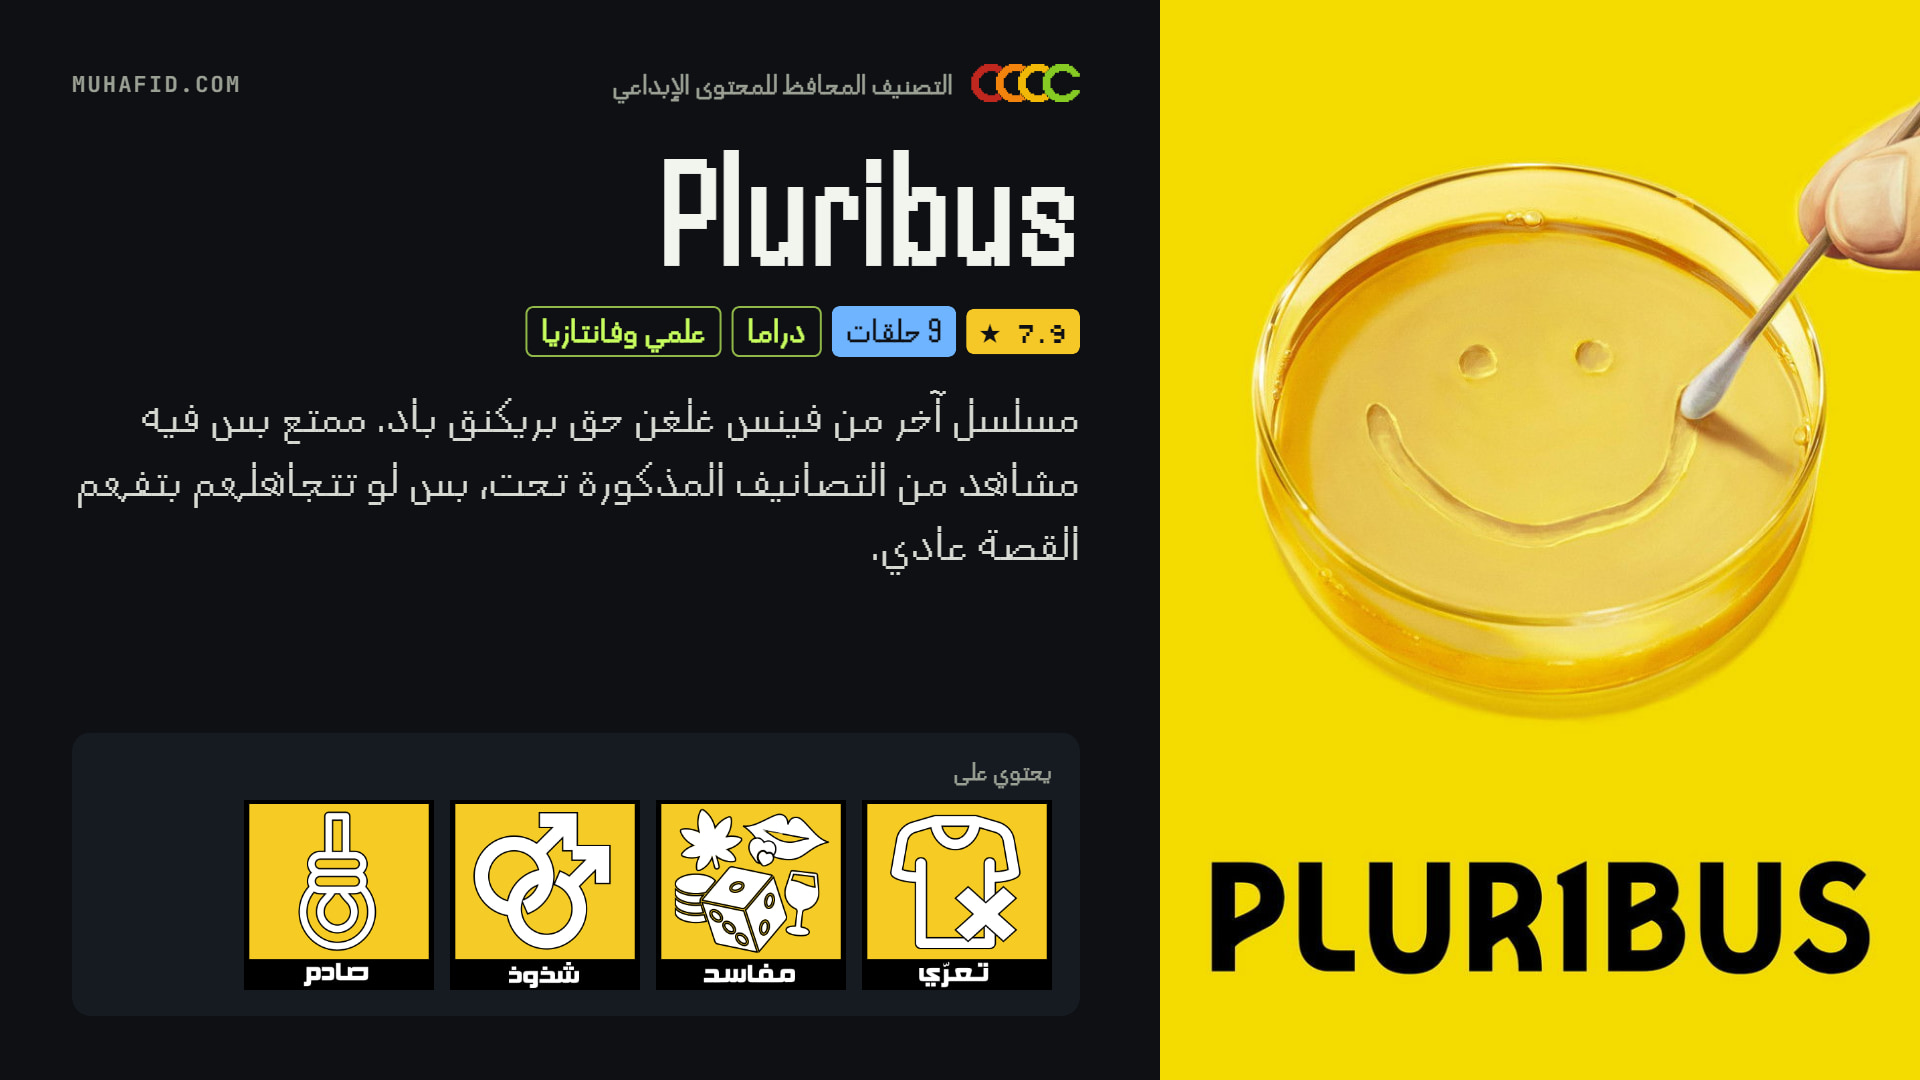
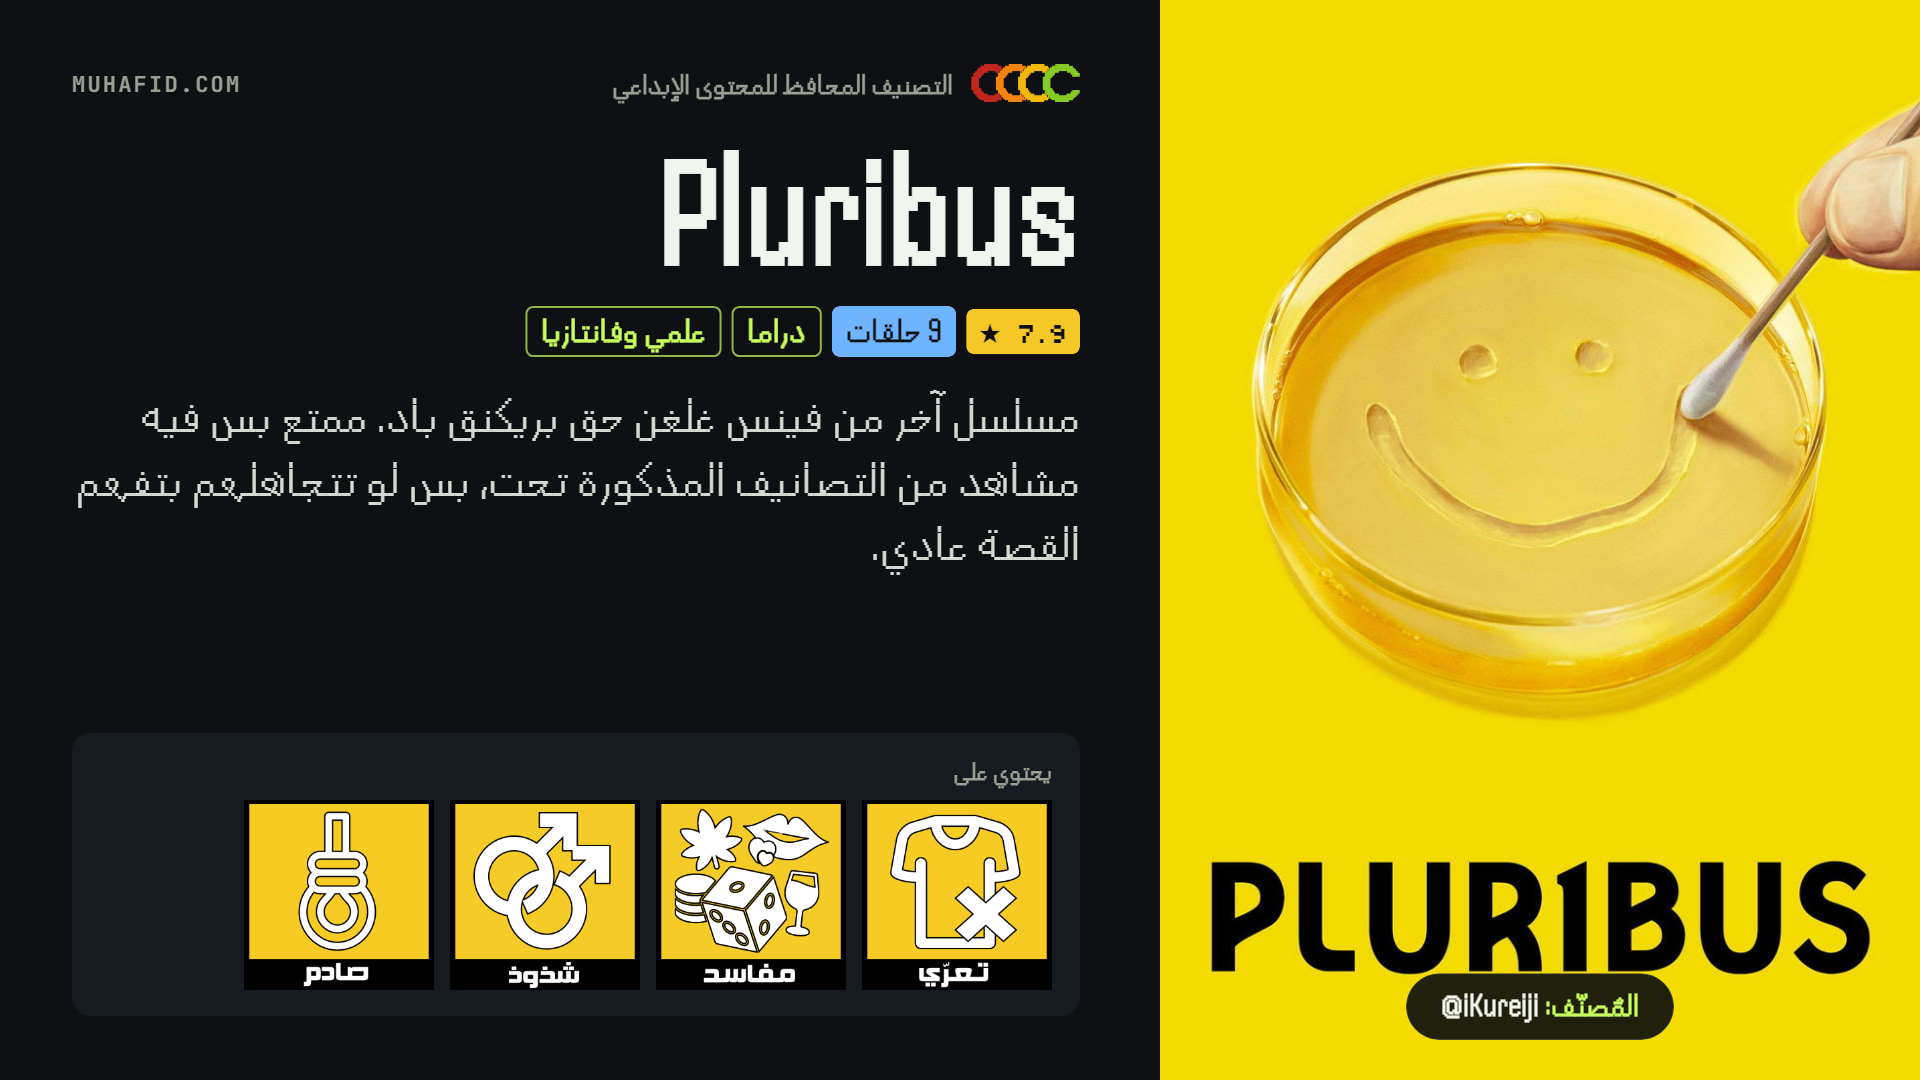
docs: sample cards signed @iKureiji; English card in the English section
All four README cards now show the classifier as @iKureiji, and the English
section uses the Pluribus card made on muhafid.com/en.

Changed region(s): [[0.7188, 0.8861, 0.875, 0.9778]]

diff --git a/README.md b/README.md
@@ -177,7 +177,7 @@ Anime · Manga · Movies · TV series · Games · Books — plus **manual mode**
 On phones the site has its own layout: the card stays pinned at the top while you edit, and Export opens the share sheet for X, WhatsApp and others.
 
 <div align="center">
-<img src=".github/readme/pluribus-horizontal.jpg" alt="Landscape rating card for the series Pluribus" width="720">
+<img src=".github/readme/pluribus-horizontal-en.jpg" alt="Landscape rating card for the series Pluribus, from the English site" width="720">
 </div>
 
 ### The rating system
